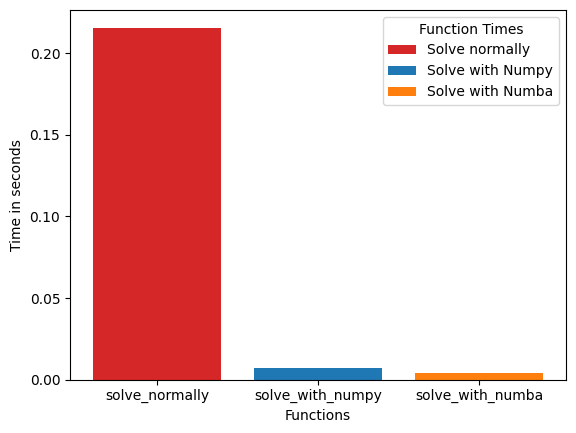
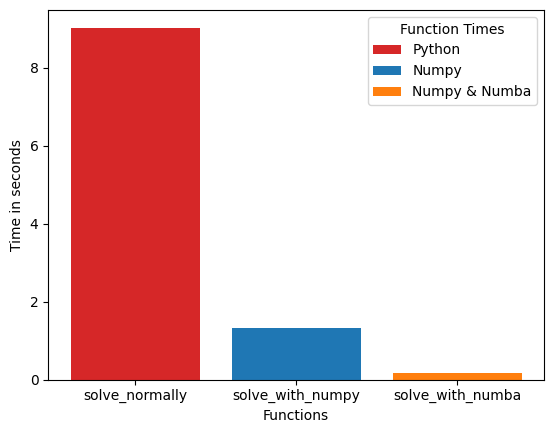
Increase calculation

diff --git a/project_euler/0001.py b/project_euler/0001.py
@@ -5,7 +5,7 @@ from numba import njit
 import numpy as np
 import time
 
-numbers = [x for x in range(1, 100000000) if x % 3 == 0 or x % 5 == 0]
+numbers = [x for x in range(1, 1000000000) if x % 3 == 0 or x % 5 == 0]
 np_numbers = np.array(numbers)
 
 def solve_normally():
@@ -14,7 +14,7 @@ def solve_normally():
 def solve_with_numpy():
     return np.sum(np_numbers)
 
-@njit(parallel=True)
+@njit(parallel=True, fastmath=True)
 def solve_with_numba():
     return np.sum(np_numbers)
 
@@ -38,7 +38,7 @@ if __name__  == '__main__':
     fix, ax = plt.subplots()
     bar_colors = ['tab:red', 'tab:blue', 'tab:orange']
 
-    ax.bar(functions, times, label=["Solve normally", "Solve with Numpy", "Solve with Numba"], color=bar_colors)
+    ax.bar(functions, times, label=["Python", "Numpy", "Numpy & Numba"], color=bar_colors)
     ax.legend(title="Function Times")
     plt.xlabel("Functions")
     plt.ylabel("Time in seconds")
